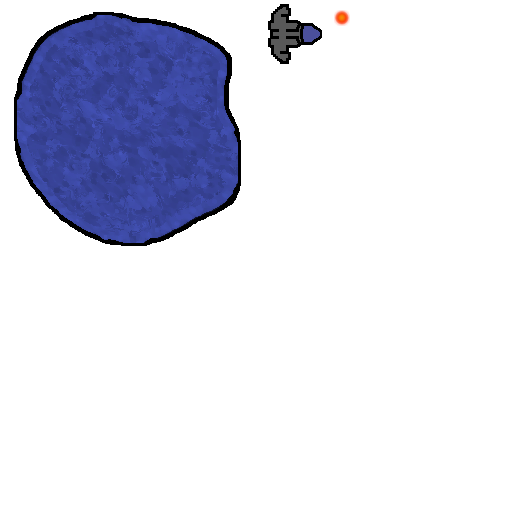
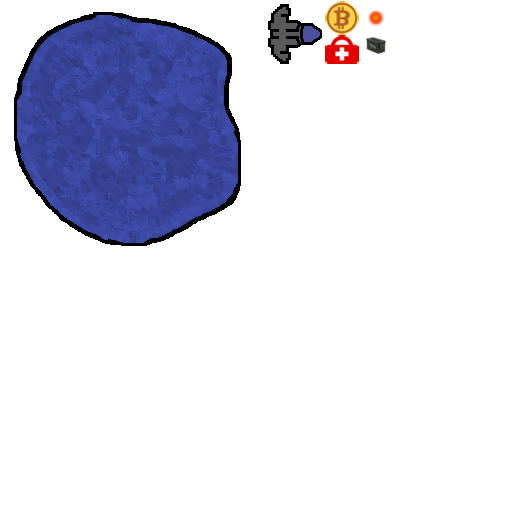
Домашнее задание урок №4

Changed region(s): [[0.625, 0.0, 0.75, 0.125]]

diff --git a/core/src/com/star/app/game/GameController.java b/core/src/com/star/app/game/GameController.java
@@ -3,6 +3,7 @@ package com.star.app.game;
 
 import com.badlogic.gdx.math.MathUtils;
 import com.badlogic.gdx.math.Vector2;
+import com.star.app.game.helpers.PullupType;
 import com.star.app.screen.ScreenManager;
 
 public class GameController {
@@ -10,6 +11,7 @@ public class GameController {
     private BulletController bulletController;
     private AsteroidController asteroidController;
     private ParticleController particleController;
+    private PullupController pullupController;
     private Hero hero;
     private Vector2 tempVec;
 
@@ -25,6 +27,10 @@ public class GameController {
         return bulletController;
     }
 
+    public PullupController getPullupController() {
+        return pullupController;
+    }
+
     public Background getBackground() {
         return background;
     }
@@ -38,6 +44,7 @@ public class GameController {
         this.bulletController = new BulletController(this);
         this.asteroidController = new AsteroidController(this);
         this.particleController = new ParticleController();
+        this.pullupController = new PullupController();
         this.hero = new Hero(this);
         this.tempVec = new Vector2();
 
@@ -46,12 +53,14 @@ public class GameController {
                     MathUtils.random(0, ScreenManager.SCREEN_HEIGHT),
                     MathUtils.random(-150, 150), MathUtils.random(-150, 150), 1.0f);
         }
+
     }
 
     public void update(float dt) {
         background.update(dt);
         bulletController.update(dt);
         asteroidController.update(dt);
+        pullupController.update();
         particleController.update(dt);
         hero.update(dt);
         checkCollisions();
@@ -75,6 +84,9 @@ public class GameController {
 
                 if (a.takeDamage(2)) {
                     hero.addScore(a.getHpMax() * 50);
+                    if(a.isActive() == false) {
+                        pullupArise(a.getPosition().x, a.getPosition().y);
+                    }
                 }
                 hero.takeDamage(2);
             }
@@ -96,12 +108,52 @@ public class GameController {
                     b.deactivate();
                     if (a.takeDamage(1)) {
                         hero.addScore(a.getHpMax() * 100);
+                        if(a.isActive() == false) {
+                            pullupArise(a.getPosition().x, a.getPosition().y);
+                        }
                     }
                     break;
                 }
             }
         }
+
+        //столкновение героя и pullups
+        for(int i = 0; i < pullupController.getActiveList().size(); i++) {
+            Pullup pullup = pullupController.getActiveList().get(i);
+            if(hero.getHitArea().overlaps(pullup.getHitArea())) {
+                getBonuses(pullup.getType(), pullup.getPoints());
+                pullup.deactivate();
+            }
+        }
+
     }
 
+
+    public void pullupArise(float x, float y) {
+        int probabilityNumber = MathUtils.random(1, 3);
+        if(probabilityNumber == 1) {
+            pullupController.setup(x, y);
+        }
+    }
+
+    private void getBonuses(PullupType type, int bonusPoints) {
+        switch(type) {
+            case AMMO:
+                Weapon currentWeapon = hero.getCurrentWeapon();
+                currentWeapon.addBullets(bonusPoints);
+                if(currentWeapon.getCurBullets() > currentWeapon.getMaxBullets()) {
+                    currentWeapon.setCurBullets(currentWeapon.getMaxBullets());
+                }
+                break;
+            case COIN:
+                hero.addCoins(bonusPoints);
+                break;
+            case CURE:
+                hero.addHp(bonusPoints);
+                if(hero.getHp() > hero.getHpMax()) {
+                    hero.setHp(hero.getHpMax());
+                }
+        }
+    }
 
 }

diff --git a/core/src/com/star/app/game/Pullup.java b/core/src/com/star/app/game/Pullup.java
@@ -1,0 +1,85 @@
+package com.star.app.game;
+
+import com.badlogic.gdx.graphics.g2d.SpriteBatch;
+import com.badlogic.gdx.graphics.g2d.TextureRegion;
+import com.badlogic.gdx.math.Circle;
+import com.badlogic.gdx.math.MathUtils;
+import com.badlogic.gdx.math.Vector2;
+import com.star.app.game.helpers.Poolable;
+import com.star.app.game.helpers.PullupType;
+import com.star.app.screen.utils.Assets;
+
+public class Pullup implements Poolable {
+    private Vector2 position;
+    private boolean active;
+    private PullupType type;
+    private Circle hitArea;
+    private int points;
+    private TextureRegion texture;
+
+    private final float BASE_SIZE = 32.0f;
+    private final float BASE_RADIUS = BASE_SIZE / 2;
+
+
+    public Pullup() {
+        this.position = new Vector2();
+        this.active = false;
+        this.hitArea = new Circle(0, 0, 0);
+    }
+
+    @Override
+    public boolean isActive() {
+        return active;
+    }
+
+    public int getPoints() {
+        return points;
+    }
+
+    public PullupType getType() {
+        return type;
+    }
+
+    public Circle getHitArea() {
+        return hitArea;
+    }
+
+    private void defineTexture() {
+       int typeNumber = MathUtils.random(1, 3);
+       switch(typeNumber) {
+           case 1:
+               this.type = PullupType.AMMO;
+               this.texture = Assets.getInstance().getAtlas().findRegion("ammo");
+               break;
+           case 2:
+               this.type = PullupType.CURE;
+               this.texture = Assets.getInstance().getAtlas().findRegion("cure");
+               break;
+           case 3:
+               this.type = PullupType.COIN;
+               this.texture = Assets.getInstance().getAtlas().findRegion("coin");
+       }
+
+    }
+
+    public void render(SpriteBatch batch) {
+        batch.draw(texture, position.x - 16, position.y - 16, 16, 16,
+                256, 256, 0.2f, 0.2f, 0);
+    }
+
+
+    public void activate(float x, float y) {
+        position.set(x, y);
+        hitArea.set(x, y, BASE_RADIUS * 0.9f);
+        defineTexture();
+        points = MathUtils.random(10, 50);
+        active = true;
+
+    }
+
+    public void deactivate() {
+        active = false;
+    }
+
+
+}

diff --git a/core/src/com/star/app/game/Hero.java b/core/src/com/star/app/game/Hero.java
@@ -28,6 +28,7 @@ public class Hero {
     private StringBuilder sb;
     private Circle hitArea;
     private Weapon currentWeapon;
+    private int coins;
 
     public Circle getHitArea() {
         return hitArea;
@@ -48,6 +49,7 @@ public class Hero {
     public float getAngle() {
         return angle;
     }
+
 
     public Hero(GameController gc) {
         this.gc = gc;
@@ -77,11 +79,36 @@ public class Hero {
         hp -= amount;
     }
 
+    public void addCoins(int amount) {
+        coins += amount;
+    }
+
+    public void addHp(int amount) {
+        hp += amount;
+    }
+
+    public int getHp() {
+        return hp;
+    }
+
+    public int getHpMax() {
+        return hpMax;
+    }
+
+    public void setHp(int hp) {
+        this.hp = hp;
+    }
+
+    public Weapon getCurrentWeapon() {
+        return currentWeapon;
+    }
+
     public void renderGUI(SpriteBatch batch, BitmapFont font) {
         sb.setLength(0);
         sb.append("SCORE: ").append(scoreView).append("\n");
         sb.append("HP: ").append(hp).append("/").append(hpMax).append("\n");
         sb.append("BULLETS: ").append(currentWeapon.getCurBullets()).append("/").append(currentWeapon.getMaxBullets()).append("\n");
+        sb.append("COINS: ").append(coins);
         font.draw(batch, sb, 20, 700);
     }
 

diff --git a/core/src/com/star/app/game/PullupController.java b/core/src/com/star/app/game/PullupController.java
@@ -1,0 +1,30 @@
+package com.star.app.game;
+
+import com.badlogic.gdx.graphics.g2d.SpriteBatch;
+import com.star.app.game.helpers.ObjectPool;
+
+public class PullupController extends ObjectPool<Pullup> {
+
+
+    @Override
+    protected Pullup newObject() {
+        return new Pullup();
+    }
+
+    public void render(SpriteBatch batch) {
+        for (int i = 0; i < activeList.size(); i++) {
+            Pullup pullup = activeList.get(i);
+            pullup.render(batch);
+        }
+    }
+
+    public void setup(float x, float y){
+        getActiveElement().activate(x, y);
+    }
+
+
+    public void update() {
+        checkPool();
+    }
+
+}

diff --git a/core/src/com/star/app/game/Weapon.java b/core/src/com/star/app/game/Weapon.java
@@ -30,6 +30,14 @@ public class Weapon {
         return curBullets;
     }
 
+    public void addBullets(int amount) {
+        curBullets += amount;
+    }
+
+    public void setCurBullets(int curBullets) {
+        this.curBullets = curBullets;
+    }
+
     public Weapon(GameController gc, Hero hero, float firePeriod, int damage,
                   float bulletSpeed, int maxBullets, Vector3[] slots) {
         this.gc = gc;

diff --git a/core/src/com/star/app/game/WorldRenderer.java b/core/src/com/star/app/game/WorldRenderer.java
@@ -26,6 +26,7 @@ public class WorldRenderer {
         gc.getBulletController().render(batch);
         gc.getAsteroidController().render(batch);
         gc.getParticleController().render(batch);
+        gc.getPullupController().render(batch);
         gc.getHero().render(batch);
         gc.getHero().renderGUI(batch, font32);
         batch.end();

diff --git a/core/src/com/star/app/game/helpers/PullupType.java b/core/src/com/star/app/game/helpers/PullupType.java
@@ -1,0 +1,9 @@
+package com.star.app.game.helpers;
+
+public enum PullupType {
+    AMMO,
+    CURE,
+    COIN
+
+
+}
